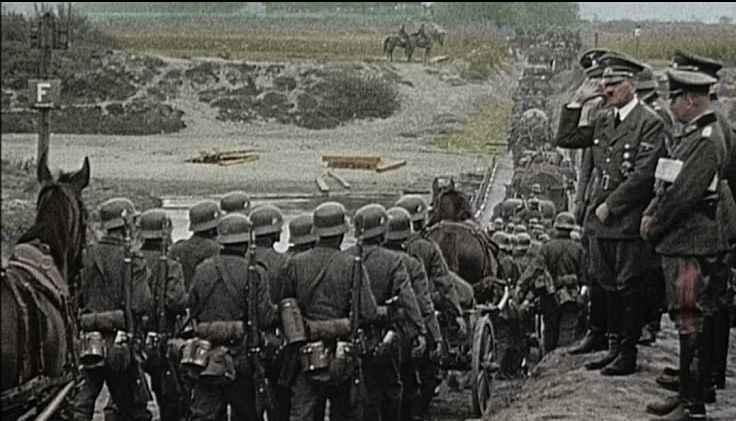
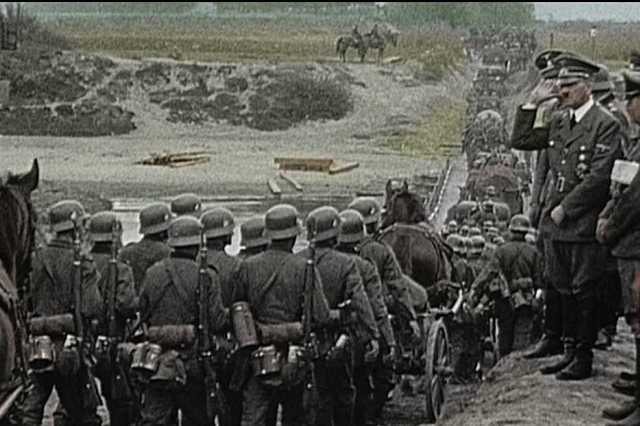
detail

diff --git a/application/views/PreparerSejour.php b/application/views/PreparerSejour.php
@@ -204,7 +204,7 @@
 				</div>
 			</div>
 		</div>
-		<h2>CITE DES MILLES SOLDATS</h2>
+		<h2>CIT&Eacute; DES MILLES SOLDATS</h2>
 		<p>
 			Place du marché
 		</p>
@@ -241,7 +241,7 @@
 	</div>
 	<div class="col-md-4 bg-primary no-padding teambox">
 		<div class="team-thumb overlay-image view-overlay">
-			<img src="<?= base_url() ?>assets/img/ww2.jpg" alt="" class="img-responsive">
+			<img src="<?= base_url() ?>assets/img/landscape-war2.jpg" alt="" class="img-responsive">
 			<div class="mask team_quote">
 				<div class="port-zoom-link">
 					<p>
